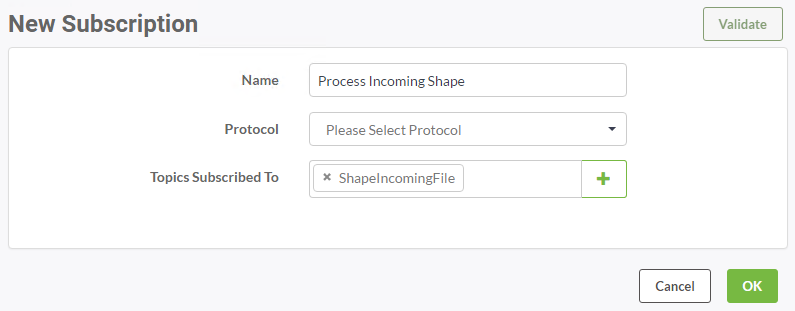
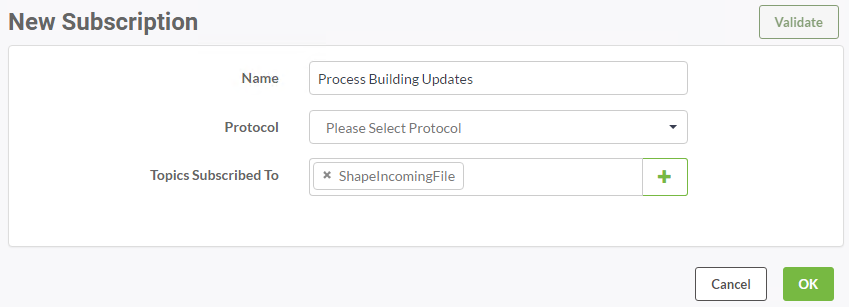
2017 Chapter 4 Exercise 2
Update image and text reference to new data files

diff --git a/ServerAuthoring4RealTime/Exercise2.md b/ServerAuthoring4RealTime/Exercise2.md
@@ -16,7 +16,7 @@
 
 <tr>
 <td style="border: 1px solid darkorange; font-weight: bold">Data</td>
-<td style="border: 1px solid darkorange">Contour vector features (Esri Shapefile)</td>
+<td style="border: 1px solid darkorange">Building footprints (Esri Shapefile)</td>
 </tr>
 
 <tr>
@@ -86,7 +86,7 @@ This will give us a workspace to run in response to new files; albeit one that d
 <br>**3) Create Subscription**
 <br>Return to the FME Server Web UI and navigate to the Notifications page. Click on the Subscriptions tab and click New to create a new Subscription.
 
-Call the subscription "Process Incoming Shape".  Subscribe to the topic ShapeIncomingFile:
+Call the subscription "Process Building Updates".  Subscribe to the topic ShapeIncomingFile:
 
 ![](./Images/Img4.407.Ex2.CreateSubscription1.png)
 
